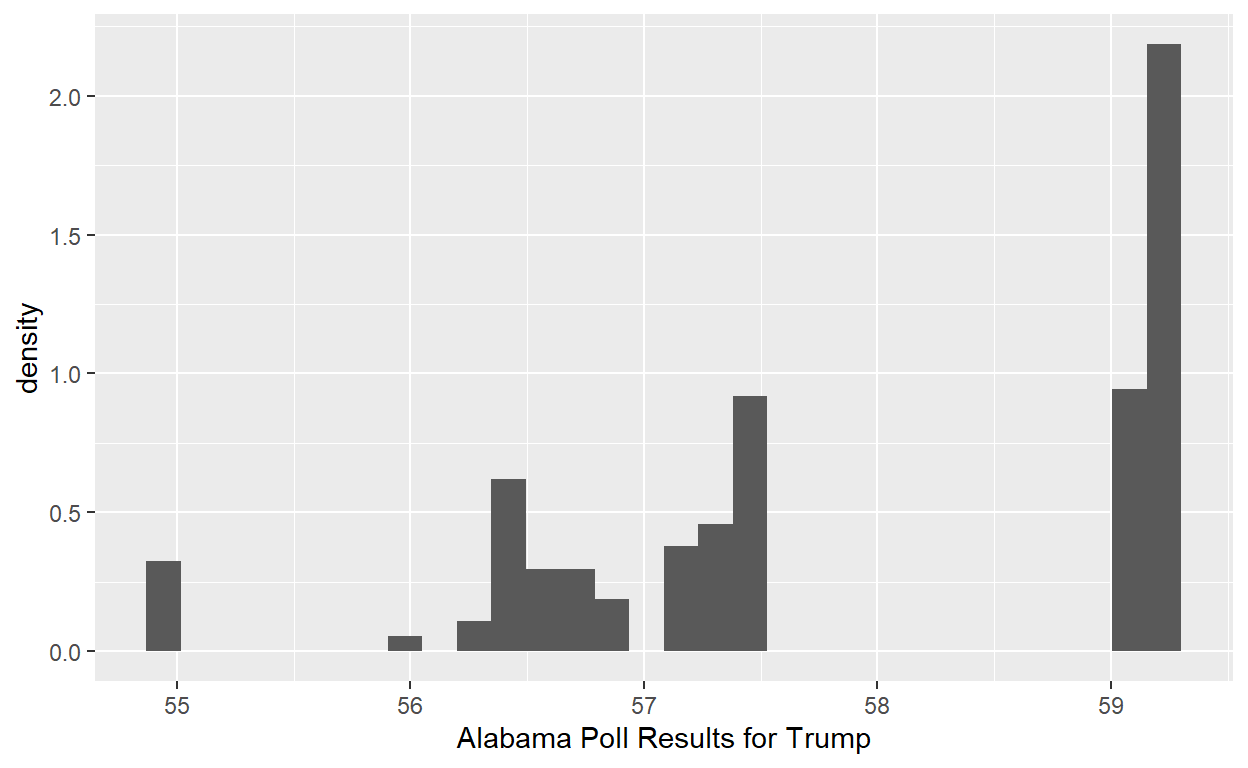
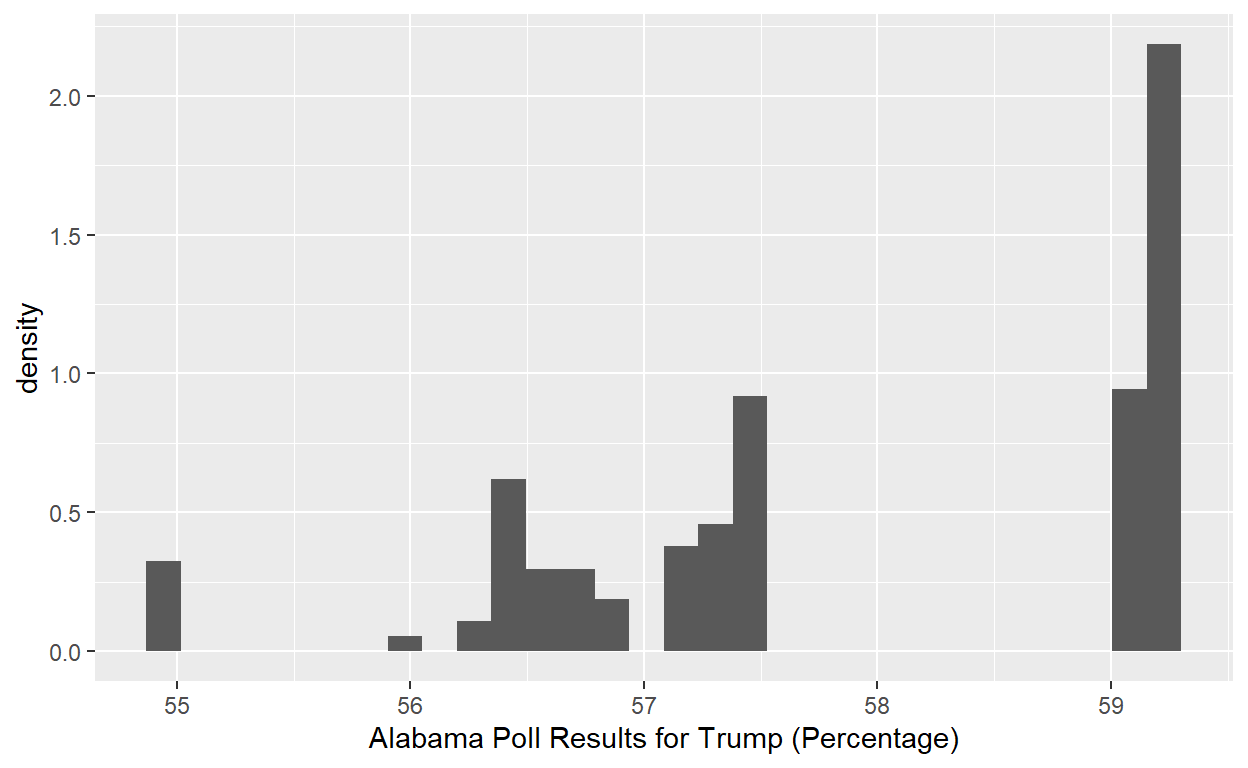
try 2

Changed region(s): [[0.2812, 0.9375, 0.7812, 1.0]]

diff --git a/index.html b/index.html
@@ -115,7 +115,7 @@ code span.wa { color: #5e5e5e; font-style: italic; } /* Warning */
   <!--/radix_placeholder_rmarkdown_metadata-->
   
   <script type="text/json" id="radix-resource-manifest">
-  {"type":"character","attributes":{},"value":["index_files/anchor-4.2.2/anchor.min.js","index_files/bowser-1.9.3/bowser.min.js","index_files/distill-2.2.21/template.v2.js","index_files/figure-html5/unnamed-chunk-2-1.png","index_files/figure-html5/unnamed-chunk-2-2.png","index_files/figure-html5/unnamed-chunk-3-1.png","index_files/figure-html5/unnamed-chunk-3-2.png","index_files/header-attrs-2.16/header-attrs.js","index_files/header-attrs-2.17/header-attrs.js","index_files/jquery-3.6.0/jquery-3.6.0.js","index_files/jquery-3.6.0/jquery-3.6.0.min.js","index_files/jquery-3.6.0/jquery-3.6.0.min.map","index_files/popper-2.6.0/popper.min.js","index_files/tippy-6.2.7/tippy-bundle.umd.min.js","index_files/tippy-6.2.7/tippy-light-border.css","index_files/tippy-6.2.7/tippy.css","index_files/tippy-6.2.7/tippy.umd.min.js","index_files/webcomponents-2.0.0/webcomponents.js","pres_polls_2020.csv","urbanization-census-tract.csv"]}
+  {"type":"character","attributes":{},"value":["index_files/anchor-4.2.2/anchor.min.js","index_files/bowser-1.9.3/bowser.min.js","index_files/distill-2.2.21/template.v2.js","index_files/figure-html5/unnamed-chunk-2-1.png","index_files/figure-html5/unnamed-chunk-2-2.png","index_files/figure-html5/unnamed-chunk-3-1.png","index_files/figure-html5/unnamed-chunk-3-2.png","index_files/figure-html5/unnamed-chunk-9-1.png","index_files/figure-html5/unnamed-chunk-9-2.png","index_files/figure-html5/unnamed-chunk-9-3.png","index_files/figure-html5/unnamed-chunk-9-4.png","index_files/header-attrs-2.16/header-attrs.js","index_files/header-attrs-2.17/header-attrs.js","index_files/jquery-3.6.0/jquery-3.6.0.js","index_files/jquery-3.6.0/jquery-3.6.0.min.js","index_files/jquery-3.6.0/jquery-3.6.0.min.map","index_files/popper-2.6.0/popper.min.js","index_files/tippy-6.2.7/tippy-bundle.umd.min.js","index_files/tippy-6.2.7/tippy-light-border.css","index_files/tippy-6.2.7/tippy.css","index_files/tippy-6.2.7/tippy.umd.min.js","index_files/webcomponents-2.0.0/webcomponents.js","pres_polls_2020.csv","urbanization-census-tract.csv"]}
   </script>
   <!--radix_placeholder_navigation_in_header-->
   <!--/radix_placeholder_navigation_in_header-->
@@ -1519,7 +1519,7 @@ code span.wa { color: #5e5e5e; font-style: italic; } /* Warning */
 <div class="d-article">
 <h2 id="introduction">Introduction</h2>
 <p>When looking at an electoral map of the United States after a major election, it is often easy for average people and political pundits alike to draw inferences and even conclusions about the types of voters represented by red and blue, based on the regions they come from. However, as a voter who lives in a decidedly blue state (New Jersey) but simultaneously one of the most red counties in America (Sussex County, in rural northwest NJ), I was drawn to the idea of how one breaks down the regional and geographic factors that go into one’s voting preferences.</p>
-<p>This project will focus on the breakdown of rural and urban voters in the 2020 election. More specifically, the ways in which rural and urban differences do and do not dictate the way a region votes, compared with how the population of a region (abstract of urbanization index as defined by FiveThirtyEight in this case). I have found a pair of data sets, which are read in below, that has comprehensive breakdowns of each state’s urbanization, and the poll results in the 2020 presidential election.</p>
+<p>This project will focus on the breakdown of rural and urban voters in the 2020 election. More specifically, the ways in which rural and urban differences do and do not dictate the way a region votes, compared with the population of a region (abstract of urbanization index as defined by FiveThirtyEight in this case). I have found a pair of data sets, which are read in below, that has comprehensive breakdowns of each state’s urbanization, and the poll results in the 2020 presidential election.</p>
 <div class="layout-chunk" data-layout="l-body">
 <div class="sourceCode">
 <pre class="sourceCode r"><code class="sourceCode r"><span><span class='va'>voting</span> <span class='op'>&lt;-</span> <span class='fu'><a href='https://rdrr.io/r/utils/read.table.html'>read.csv</a></span><span class='op'>(</span><span class='st'>"urbanization-census-tract.csv"</span><span class='op'>)</span></span>
@@ -1541,14 +1541,14 @@ code span.wa { color: #5e5e5e; font-style: italic; } /* Warning */
 <span></span>
 <span><span class='va'>alplot1</span> <span class='op'>&lt;-</span> <span class='fu'><a href='https://ggplot2.tidyverse.org/reference/ggplot.html'>ggplot</a></span><span class='op'>(</span>data <span class='op'>=</span> <span class='va'>bama_polls</span>, <span class='fu'><a href='https://ggplot2.tidyverse.org/reference/aes.html'>aes</a></span><span class='op'>(</span>x <span class='op'>=</span> <span class='va'>pct_estimate</span><span class='op'>)</span><span class='op'>)</span><span class='op'>+</span></span>
 <span>  <span class='fu'><a href='https://ggplot2.tidyverse.org/reference/geom_histogram.html'>geom_histogram</a></span><span class='op'>(</span><span class='fu'><a href='https://ggplot2.tidyverse.org/reference/aes.html'>aes</a></span><span class='op'>(</span>y<span class='op'>=</span> <span class='va'>..density..</span><span class='op'>)</span><span class='op'>)</span><span class='op'>+</span></span>
-<span>  <span class='fu'><a href='https://ggplot2.tidyverse.org/reference/labs.html'>labs</a></span><span class='op'>(</span>x <span class='op'>=</span> <span class='st'>"Alabama Poll Results for Trump"</span><span class='op'>)</span></span>
+<span>  <span class='fu'><a href='https://ggplot2.tidyverse.org/reference/labs.html'>labs</a></span><span class='op'>(</span>x <span class='op'>=</span> <span class='st'>"Alabama Poll Results for Trump (Percentage)"</span><span class='op'>)</span></span>
 <span><span class='va'>alplot1</span></span></code></pre>
 </div>
 <img src="index_files/figure-html5/unnamed-chunk-2-1.png" width="624" />
 <div class="sourceCode">
 <pre class="sourceCode r"><code class="sourceCode r"><span><span class='va'>alplot2</span> <span class='op'>&lt;-</span> <span class='fu'><a href='https://ggplot2.tidyverse.org/reference/ggplot.html'>ggplot</a></span><span class='op'>(</span>data <span class='op'>=</span> <span class='va'>bama_urban</span>, <span class='fu'><a href='https://ggplot2.tidyverse.org/reference/aes.html'>aes</a></span><span class='op'>(</span>x <span class='op'>=</span> <span class='va'>urbanindex</span><span class='op'>)</span><span class='op'>)</span><span class='op'>+</span></span>
 <span>  <span class='fu'><a href='https://ggplot2.tidyverse.org/reference/geom_histogram.html'>geom_histogram</a></span><span class='op'>(</span><span class='fu'><a href='https://ggplot2.tidyverse.org/reference/aes.html'>aes</a></span><span class='op'>(</span>y<span class='op'>=</span> <span class='va'>..density..</span><span class='op'>)</span><span class='op'>)</span> <span class='op'>+</span></span>
-<span>  <span class='fu'><a href='https://ggplot2.tidyverse.org/reference/labs.html'>labs</a></span><span class='op'>(</span>x <span class='op'>=</span> <span class='st'>"Urban Index of Regions in Alabama"</span><span class='op'>)</span></span>
+<span>  <span class='fu'><a href='https://ggplot2.tidyverse.org/reference/labs.html'>labs</a></span><span class='op'>(</span>x <span class='op'>=</span> <span class='st'>"Urban Index of Regions in Alabama"</span>, <span class='op'>)</span></span>
 <span><span class='va'>alplot2</span></span></code></pre>
 </div>
 <p><img src="index_files/figure-html5/unnamed-chunk-2-2.png" width="624" /></p>
@@ -1565,7 +1565,7 @@ code span.wa { color: #5e5e5e; font-style: italic; } /* Warning */
 <span></span>
 <span><span class='va'>nyplot1</span> <span class='op'>&lt;-</span> <span class='fu'><a href='https://ggplot2.tidyverse.org/reference/ggplot.html'>ggplot</a></span><span class='op'>(</span>data <span class='op'>=</span> <span class='va'>ny_polls</span>, <span class='fu'><a href='https://ggplot2.tidyverse.org/reference/aes.html'>aes</a></span><span class='op'>(</span>x <span class='op'>=</span> <span class='va'>pct_estimate</span><span class='op'>)</span><span class='op'>)</span><span class='op'>+</span></span>
 <span>  <span class='fu'><a href='https://ggplot2.tidyverse.org/reference/geom_histogram.html'>geom_histogram</a></span><span class='op'>(</span><span class='fu'><a href='https://ggplot2.tidyverse.org/reference/aes.html'>aes</a></span><span class='op'>(</span>y<span class='op'>=</span> <span class='va'>..density..</span><span class='op'>)</span><span class='op'>)</span><span class='op'>+</span></span>
-<span>  <span class='fu'><a href='https://ggplot2.tidyverse.org/reference/labs.html'>labs</a></span><span class='op'>(</span>x <span class='op'>=</span> <span class='st'>"New York Poll Results for Trump"</span><span class='op'>)</span></span>
+<span>  <span class='fu'><a href='https://ggplot2.tidyverse.org/reference/labs.html'>labs</a></span><span class='op'>(</span>x <span class='op'>=</span> <span class='st'>"New York Poll Results for Trump (Percentage)"</span><span class='op'>)</span></span>
 <span><span class='va'>nyplot1</span></span></code></pre>
 </div>
 <img src="index_files/figure-html5/unnamed-chunk-3-1.png" width="624" />
@@ -1616,7 +1616,11 @@ Blue  Red
 <div class="layout-chunk" data-layout="l-body">
 <div class="sourceCode">
 <pre class="sourceCode r"><code class="sourceCode r"><span><span class='va'>voting</span> <span class='op'>&lt;-</span> <span class='va'>voting</span> <span class='op'>|&gt;</span></span>
-<span>  <span class='fu'><a href='https://dplyr.tidyverse.org/reference/mutate.html'>mutate</a></span><span class='op'>(</span>red_result <span class='op'>=</span> <span class='fu'><a href='https://dplyr.tidyverse.org/reference/if_else.html'>if_else</a></span><span class='op'>(</span><span class='va'>state</span> <span class='op'>==</span> <span class='st'>"Wyoming"</span> <span class='op'>|</span> <span class='va'>state</span> <span class='op'>==</span> <span class='st'>"West Virginia"</span> <span class='op'>|</span> <span class='va'>state</span> <span class='op'>==</span> <span class='st'>"Utah"</span> <span class='op'>|</span> <span class='va'>state</span> <span class='op'>==</span> <span class='st'>"Tennessee"</span> <span class='op'>|</span> <span class='va'>state</span> <span class='op'>==</span> <span class='st'>"South Dakota"</span> <span class='op'>|</span> <span class='va'>state</span> <span class='op'>==</span> <span class='st'>"South Carolina"</span> <span class='op'>|</span> <span class='va'>state</span> <span class='op'>==</span> <span class='st'>"Oklahoma"</span> <span class='op'>|</span> <span class='va'>state</span> <span class='op'>==</span> <span class='st'>"North Dakota"</span> <span class='op'>|</span> <span class='va'>state</span> <span class='op'>==</span> <span class='st'>"Nebraska"</span> <span class='op'>|</span> <span class='va'>state</span> <span class='op'>==</span> <span class='st'>"Missouri"</span> <span class='op'>|</span> <span class='va'>state</span> <span class='op'>==</span> <span class='st'>"Mississippi"</span> <span class='op'>|</span> <span class='va'>state</span> <span class='op'>==</span> <span class='st'>"Louisiana"</span> <span class='op'>|</span> <span class='va'>state</span> <span class='op'>==</span> <span class='st'>"Kentucky"</span> <span class='op'>|</span> <span class='va'>state</span> <span class='op'>==</span> <span class='st'>"Kansas"</span> <span class='op'>|</span> <span class='va'>state</span> <span class='op'>==</span> <span class='st'>"Indiana"</span> <span class='op'>|</span> <span class='va'>state</span> <span class='op'>==</span> <span class='st'>"Idaho"</span> <span class='op'>|</span> <span class='va'>state</span> <span class='op'>==</span> <span class='st'>"Arkansas"</span> <span class='op'>|</span> <span class='va'>state</span> <span class='op'>==</span> <span class='st'>"Alaska"</span> <span class='op'>|</span> <span class='va'>state</span> <span class='op'>==</span> <span class='st'>"Alabama"</span>, <span class='st'>"Red"</span>, <span class='st'>"Blue"</span><span class='op'>)</span><span class='op'>)</span></span></code></pre>
+<span>  <span class='fu'><a href='https://dplyr.tidyverse.org/reference/mutate.html'>mutate</a></span><span class='op'>(</span>red_result <span class='op'>=</span> <span class='fu'><a href='https://dplyr.tidyverse.org/reference/if_else.html'>if_else</a></span><span class='op'>(</span><span class='va'>state</span> <span class='op'>==</span> <span class='st'>"Wyoming"</span> <span class='op'>|</span> <span class='va'>state</span> <span class='op'>==</span> <span class='st'>"West Virginia"</span> <span class='op'>|</span> <span class='va'>state</span> <span class='op'>==</span> <span class='st'>"Utah"</span> <span class='op'>|</span> <span class='va'>state</span> <span class='op'>==</span> <span class='st'>"Tennessee"</span> </span>
+<span><span class='op'>|</span> <span class='va'>state</span> <span class='op'>==</span> <span class='st'>"South Dakota"</span> <span class='op'>|</span> <span class='va'>state</span> <span class='op'>==</span> <span class='st'>"South Carolina"</span> <span class='op'>|</span> <span class='va'>state</span> <span class='op'>==</span> <span class='st'>"Oklahoma"</span> <span class='op'>|</span> <span class='va'>state</span> <span class='op'>==</span> <span class='st'>"North Dakota"</span> <span class='op'>|</span> <span class='va'>state</span> <span class='op'>==</span> <span class='st'>"Nebraska"</span> </span>
+<span><span class='op'>|</span> <span class='va'>state</span> <span class='op'>==</span> <span class='st'>"Missouri"</span> <span class='op'>|</span> <span class='va'>state</span> <span class='op'>==</span> <span class='st'>"Mississippi"</span> <span class='op'>|</span> <span class='va'>state</span> <span class='op'>==</span> <span class='st'>"Louisiana"</span> <span class='op'>|</span> <span class='va'>state</span> <span class='op'>==</span> <span class='st'>"Kentucky"</span> <span class='op'>|</span> <span class='va'>state</span> <span class='op'>==</span> <span class='st'>"Kansas"</span> </span>
+<span><span class='op'>|</span> <span class='va'>state</span> <span class='op'>==</span> <span class='st'>"Indiana"</span> <span class='op'>|</span> <span class='va'>state</span> <span class='op'>==</span> <span class='st'>"Idaho"</span> <span class='op'>|</span> <span class='va'>state</span> <span class='op'>==</span> <span class='st'>"Arkansas"</span> <span class='op'>|</span> <span class='va'>state</span> <span class='op'>==</span> <span class='st'>"Alaska"</span> <span class='op'>|</span> <span class='va'>state</span> <span class='op'>==</span> <span class='st'>"Alabama"</span>,</span>
+<span><span class='st'>"Red"</span>, <span class='st'>"Blue"</span><span class='op'>)</span><span class='op'>)</span></span></code></pre>
 </div>
 </div>
 <p>Now, we can run a multiple regression to determine how the urbanization levels and population (abstract of area) might impact if a state is red or not.</p>
@@ -1652,7 +1656,15 @@ Blue  Red
 </tbody>
 </table>
 </div>
-<p>On average, according to these results, it appears that the intercept of 11.19 goes down almost a whole standard deviation when the result of Red or Blue state is made Red. This would indicate that there is a considerable positive impact on the likelihood of a state voting red if the state has a higher percentage of urban areas. It also appears that the population alone does not have much of an impact.</p>
+<p>On average, according to these results, it appears that the intercept of 11.19 goes down almost a whole standard deviation when the result of Red or Blue state is made Red. This would indicate that there is a considerable positive impact on the likelihood of a state voting red if the state has a higher percentage of rural areas. It also appears that the population alone does not have much of an impact.</p>
+<div class="layout-chunk" data-layout="l-body">
+<div class="sourceCode">
+<pre class="sourceCode r"><code class="sourceCode r"><span><span class='fu'><a href='https://rdrr.io/r/graphics/plot.default.html'>plot</a></span><span class='op'>(</span><span class='va'>regression_1</span><span class='op'>)</span></span></code></pre>
+</div>
+<p><img src="index_files/figure-html5/unnamed-chunk-9-1.png" width="624" /><img src="index_files/figure-html5/unnamed-chunk-9-2.png" width="624" /><img src="index_files/figure-html5/unnamed-chunk-9-3.png" width="624" /><img src="index_files/figure-html5/unnamed-chunk-9-4.png" width="624" /></p>
+</div>
+<h2 id="conclusion-and-extention">Conclusion and Extention</h2>
+<p>Based on the interpretations of the data made above, it seems that the urbanization of a region has a higher impact on whether or not the region votes red than the simple population of the region. Extending this to other potential conclusions, it is reasonable to consider that this phenomenon is still true when polls are broken down further into counties; i.e., areas of even blue states that are more rural are also more likely to defy the way the state as a whole votes. In the nineteen states used in the above calculations of red and blue states, it seems that there are enough people who live in these areas of lower urbanization index to make the entire state turn red. While one can not say all rural voters are red, nor that being a rural voter is the only thing that makes a voter swing red, there is apparent evidence that there is a direct link between the two, and this can potentially be extrapolated to most if not any regional sample size in the United States.</p>
 <div class="sourceCode" id="cb3"><pre class="sourceCode r distill-force-highlighting-css"><code class="sourceCode r"></code></pre></div>
 <!--radix_placeholder_article_footer-->
 <!--/radix_placeholder_article_footer-->
